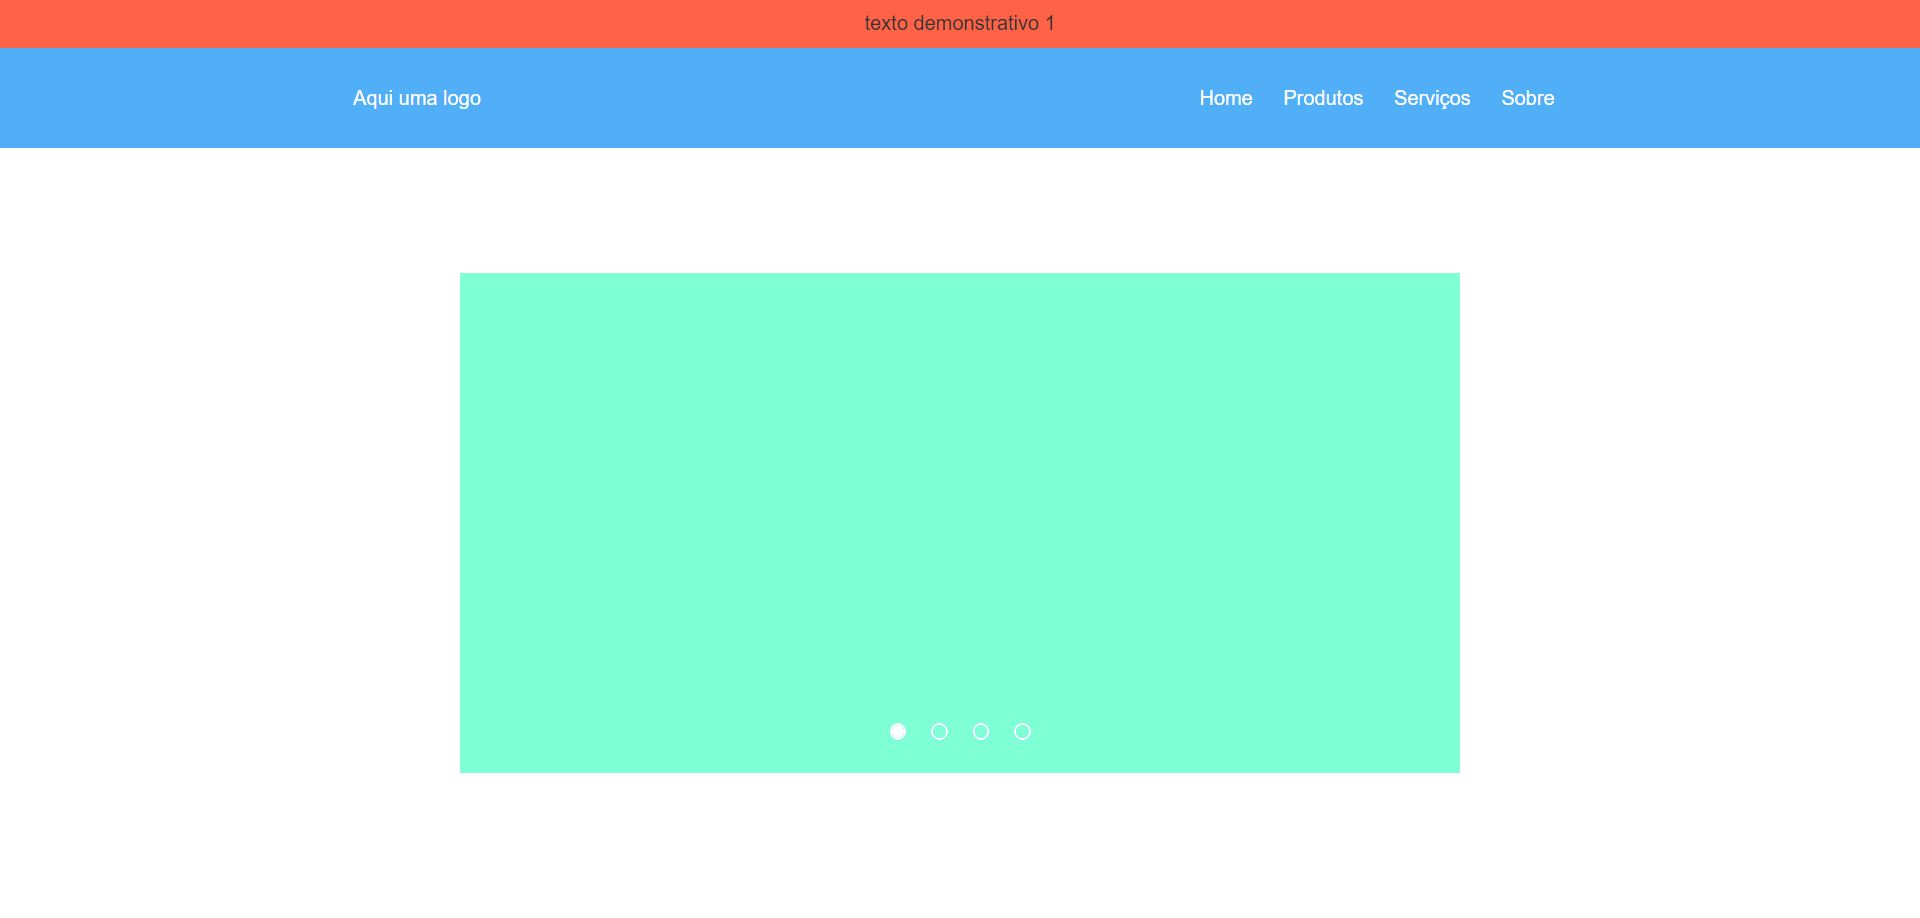
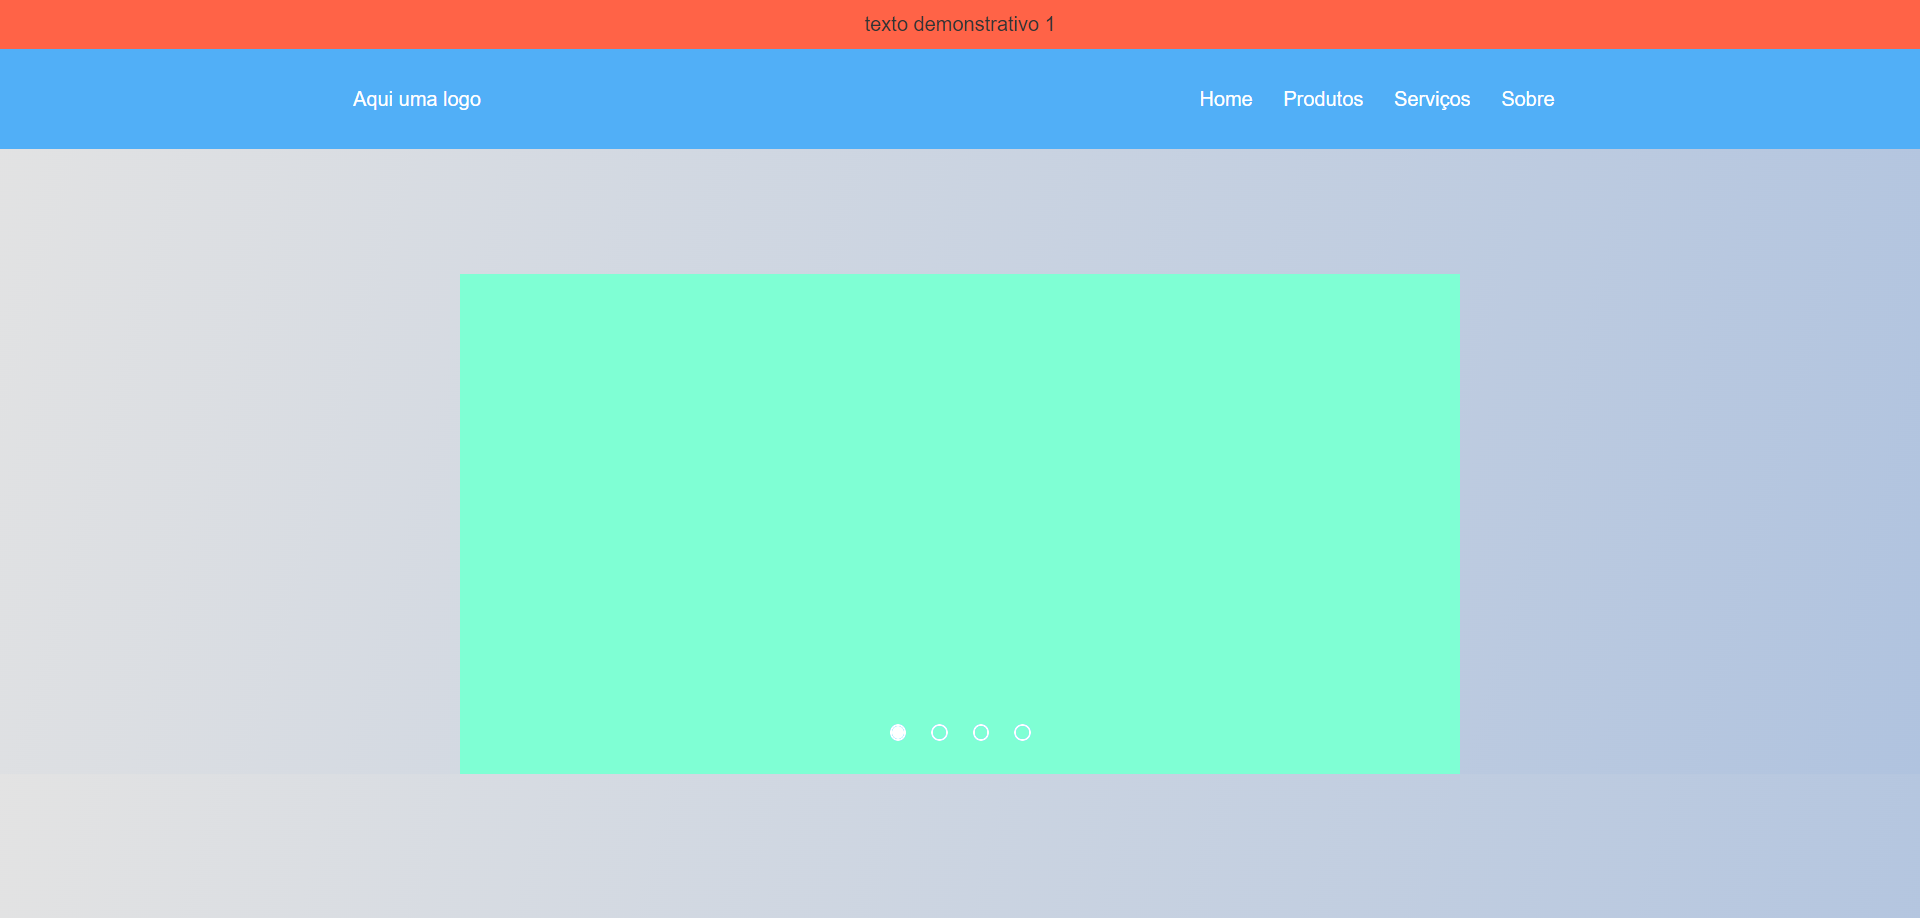
corrigindo problemas esteticos, bg e icones

diff --git a/index.html b/index.html
@@ -21,8 +21,7 @@
                 <div class="description">
                     <div class="right-side">
                         <h2>Uma breve apresentação</h2>
-                        <p>Olá a você que teve a curiosidade de clicar nesse site! seja muito bem vindo a esse pequeno
-                            projeto que fiz utilizando um pouco de HTML, CSS e JavaScript.
+                        <p>Seja muito bem vindo a esse projeto que fiz utilizando um pouco de HTML, CSS e JavaScript.
                             Sendo eles a base de qualquer sistema Web inevitalvelmente tive que aprender, e atravez de
                             alguns cursos e video-aulas fiz diversos projetos desde sistemas simples
                             como mostrar as horas até alguns sites mais complicados com requisições a banco de dados e a
@@ -299,8 +298,8 @@
             <div class="content">
                 <div class="left-side">
                     <h3>Contato</h3>
-                    <p>Nome: Getúlio José Lima dos Santos</p>
-                    <p>E-mail: getulio.santos@ufvjm.edu.br</p>
+                    <p class="contato"><img src="assets/images/icons/user.png"> Getúlio José Lima dos Santos</p>
+                    <p class="contato"><img src="assets/images/icons/email.png" alt="email"> getulio.santos@ufvjm.edu.br</p>
                     <h3>Redes Sociais</h3>
                     <a href="https://github.com/GetJose">Github</a></br>
                     <a href="https://www.linkedin.com/in/get%C3%BAlio-santos-a7958a25a/">LinkedIn</a>

diff --git a/assets/css/styles.css b/assets/css/styles.css
@@ -172,8 +172,9 @@ a {
 footer {
     background-color: #F0DB4F;
     height: 100%;
+    padding-bottom: 30px;
     max-height: 250px;
-    padding-top: 50px;
+    padding-top: 30px;
 }
 
 footer .banner .content {
@@ -183,6 +184,16 @@ footer .banner .content {
     margin-bottom: 0;
 }
 
+.contato {
+    display: flex;
+    align-items: center;
+    justify-content: space-around;
+}
+.contato img {
+    height: 30px;
+    width: 30px;
+    margin-right: 10px;
+}
 
 /* Responsividade*/
 @media(min-width:999px) and (max-width: 1200px) {

diff --git a/Projeto 5 - Acordeon/styles.css b/Projeto 5 - Acordeon/styles.css
@@ -14,6 +14,7 @@ body {
     align-items: center;
     justify-content: center;
     background-color: #b5bab2;
+    background: linear-gradient(105deg, #fff1c6, #a4cbfe);
 }
 
 .frame {

diff --git a/Projeto 4 - Slide Show/styles.css b/Projeto 4 - Slide Show/styles.css
@@ -7,6 +7,7 @@ body {
     height: 100%;
     color: #242424;
     font-family: sans-serif;
+    background: linear-gradient(105deg, #e3e3e3, #b0c3df);
 }
 
 .slider {
